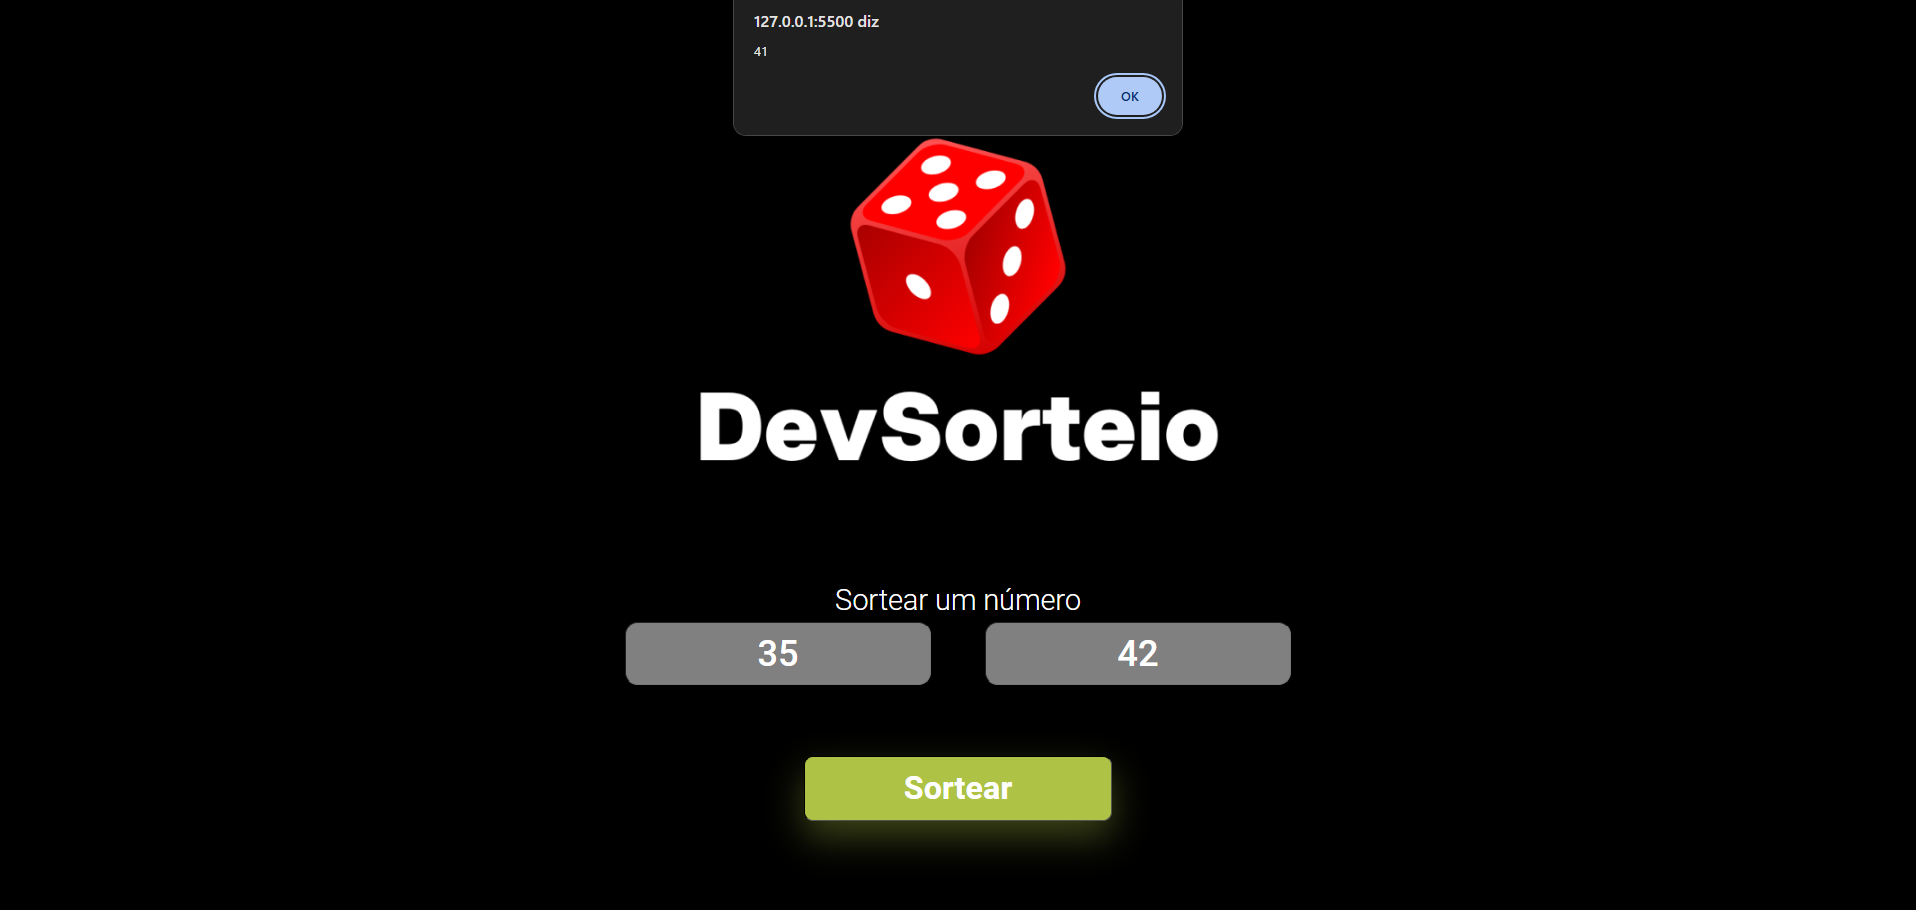
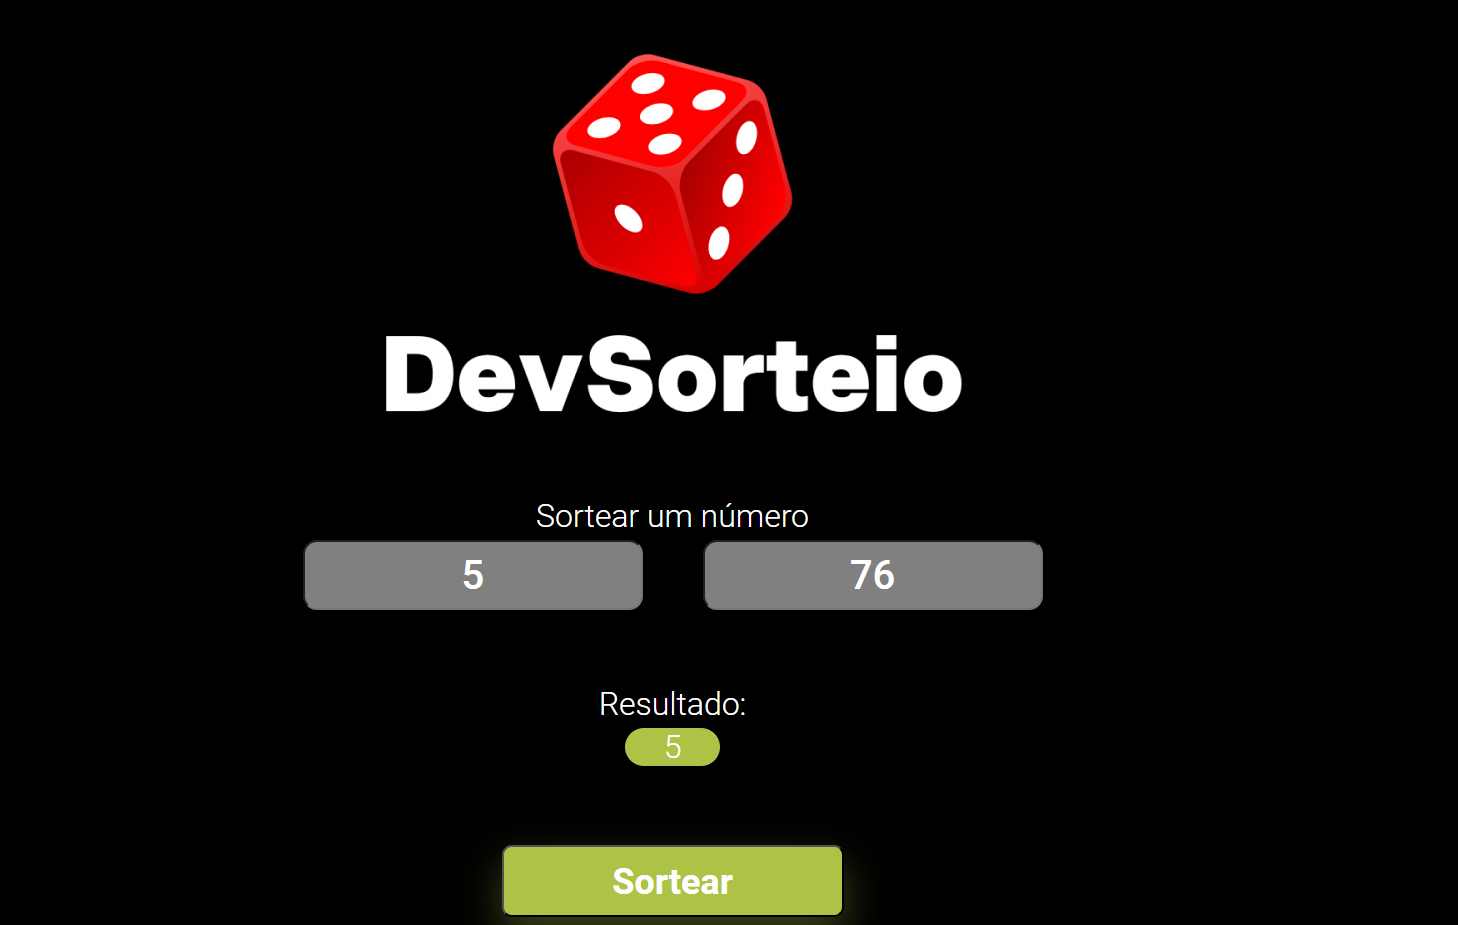
alterção no readme e adição de duas imagens para compor o readme

Changed region(s): [[0.1852, 0.5538, 0.7407, 1.0], [0.2469, 0.0, 0.679, 0.5231]]

diff --git a/README.md b/README.md
@@ -17,3 +17,7 @@
 <h2>Exemplos da página em funcionamento:</h2>
 <img src="./assets/img-working-page-1.png" />
 <img src="./assets/img-working-page-2.png" />
+<br>
+<h2>Funcionamento da página Mobile</h2>
+<img src="./assets/img-working-mobile-1.png" />
+<img src="./assets/img-working-mobile-2.png" />
